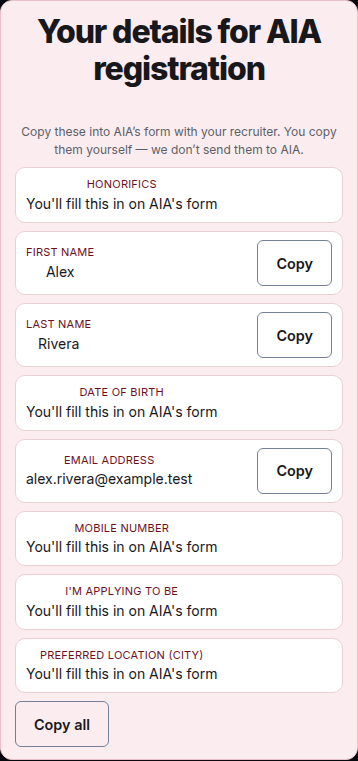
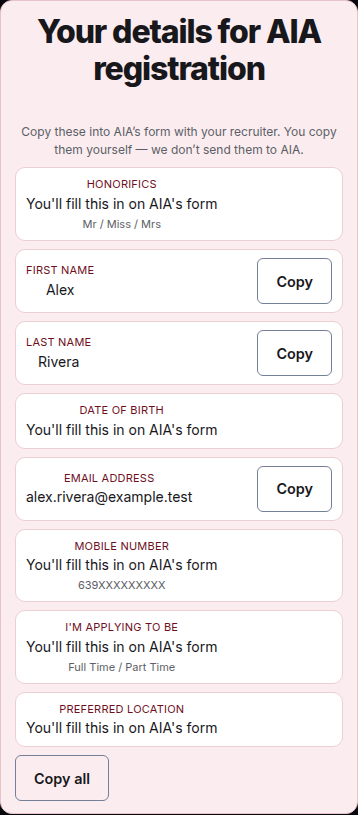
feat: mirror C1 AIA field list and adapt the copy card
Take lib/mvp01/aia-assisted-fields.ts from C1 #20 @ b895e1d (blob
fcfc4aa) without editing it. Visitor card still uses consented
name/email only, fill-on-AIA copy, and no generic join URLs.

Changed region(s): [[0.0307, 0.1511, 0.9525, 0.9671], [0.1229, 0.0, 0.8911, 0.1209]]

diff --git a/lib/mvp01/aia-assisted-fields.ts b/lib/mvp01/aia-assisted-fields.ts
@@ -1,22 +1,36 @@
 /**
- * Shared AIA iRecruit / join-us field order for C1 Command Center and G1 (#19).
- * Import this list; do not fork it. Update here once AIA confirms the live fields.
- * Never add credentials, passwords, PINs, agent codes, or iRecruit login fields.
+ * Shared AIA join-us-now copy-assist field order for C1 Command Center and G1 (#19).
+ * G1 mirrors this file byte-for-byte. Do not fork.
  *
- * AIA join-us-now form order (Nilo / SPIKEDEV, 13 Nov 2026): Honorifics, First Name,
- * Last Name, Date of Birth, Email Address, Mobile Number, I'm Applying To Be,
- * Preferred Location (City). Consent checkbox and captcha stay on AIA's form.
- * URL prefill is not supported. G1 must not collect DOB on the landing.
+ * Evidence (SPIKEDEV, read-only headless Chrome, synthetic `reference`):
+ * the live form is Honorifics, First Name, Last Name, Date of Birth, Email Address,
+ * Mobile Number, I'm Applying To Be, Preferred Location, then consent + reCAPTCHA.
+ * Applicant URL prefill is not supported. The page reads `reference`, `cmpid`,
+ * `scroll`, and `clickid`. A valid reference greets
+ * "Hi! I'm <recruiter name>, your assigned Life Planner".
+ *
+ * Never add credentials, passwords, PINs, agent codes, or iRecruit login fields.
+ * Never collect new PII here. Date of Birth is shown only when it already exists
+ * on the consented candidate record.
  */
+export const AIA_ASK_ON_FORM = "ask the candidate on AIA's form";
+export const AIA_MOBILE_FORMAT_HINT = '639XXXXXXXXX';
+
 export const AIA_ASSISTED_REGISTRATION_FIELDS = [
-  { id: 'honorifics', label: 'Honorifics', candidateKey: null },
-  { id: 'first_name', label: 'First Name', candidateKey: 'name_first' },
-  { id: 'last_name', label: 'Last Name', candidateKey: 'name_last' },
-  { id: 'date_of_birth', label: 'Date of Birth', candidateKey: null },
-  { id: 'email', label: 'Email Address', candidateKey: 'email' },
-  { id: 'mobile', label: 'Mobile Number', candidateKey: 'phone' },
-  { id: 'applying_to_be', label: "I'm Applying To Be", candidateKey: null },
-  { id: 'city', label: 'Preferred Location (City)', candidateKey: null },
+  { id: 'honorifics', label: 'Honorifics', options: ['Mr', 'Miss', 'Mrs'], candidateKey: null, formatHint: null },
+  { id: 'first_name', label: 'First Name', options: null, candidateKey: 'name_first', formatHint: null },
+  { id: 'last_name', label: 'Last Name', options: null, candidateKey: 'name_last', formatHint: null },
+  { id: 'date_of_birth', label: 'Date of Birth', options: null, candidateKey: 'dateOfBirth', formatHint: null },
+  { id: 'email', label: 'Email Address', options: null, candidateKey: 'email', formatHint: null },
+  { id: 'mobile', label: 'Mobile Number', options: null, candidateKey: 'phone', formatHint: AIA_MOBILE_FORMAT_HINT },
+  { id: 'applying_to_be', label: "I'm Applying To Be", options: ['Full Time', 'Part Time'], candidateKey: null, formatHint: null },
+  { id: 'preferred_location', label: 'Preferred Location', options: null, candidateKey: null, formatHint: null },
+] as const;
+
+/** Fields 9–10. The candidate completes these on AIA's form; they are not copy-assist fields. */
+export const AIA_ASSISTED_CANDIDATE_ON_FORM = [
+  { id: 'consent', label: 'Consent checkbox', note: "Done by the candidate on AIA's form. Not collected or copied here." },
+  { id: 'recaptcha', label: 'reCAPTCHA', note: "Done by the candidate on AIA's form. Not collected or copied here." },
 ] as const;
 
 export type AiaAssistedFieldId = (typeof AIA_ASSISTED_REGISTRATION_FIELDS)[number]['id'];
@@ -25,6 +39,18 @@ export type AiaAssistedField = {
   label: string;
   value: string;
   captured: boolean;
+  source: 'collected' | 'ask_on_aia_form';
+  prompt: string;
+  formatHint: string | null;
+  options: readonly string[] | null;
+};
+
+export type AiaAssistedCandidate = {
+  name?: string | null;
+  email?: string | null;
+  phone?: string | null;
+  /** Pass only if already stored on the consented record. Never invent or newly collect. */
+  dateOfBirth?: string | null;
 };
 
 const CREDENTIAL_FIELD = /password|credential|secret|pin|otp|agent.?code|access.?code|irecruit/i;
@@ -48,7 +74,7 @@ export function splitCandidateName(name: string) {
   return { first: parts[0], last: parts.slice(1).join(' ') };
 }
 
-export function mapAssistedRegistrationFields(candidate: { name?: string | null; email?: string | null; phone?: string | null }): AiaAssistedField[] {
+export function mapAssistedRegistrationFields(candidate: AiaAssistedCandidate = {}): AiaAssistedField[] {
   assertAiaAssistedFieldsHaveNoCredentials();
   const split = splitCandidateName(String(candidate.name || ''));
   const values: Record<string, string> = {
@@ -56,9 +82,20 @@ export function mapAssistedRegistrationFields(candidate: { name?: string | null;
     name_last: split.last,
     email: String(candidate.email || '').trim(),
     phone: String(candidate.phone || '').trim(),
+    dateOfBirth: String(candidate.dateOfBirth || '').trim(),
   };
   return AIA_ASSISTED_REGISTRATION_FIELDS.map((field) => {
     const value = field.candidateKey ? (values[field.candidateKey] || '') : '';
-    return { id: field.id, label: field.label, value, captured: value.length > 0 };
+    const captured = value.length > 0;
+    return {
+      id: field.id,
+      label: field.label,
+      value,
+      captured,
+      source: captured ? 'collected' : 'ask_on_aia_form',
+      prompt: captured ? value : AIA_ASK_ON_FORM,
+      formatHint: field.formatHint,
+      options: field.options,
+    };
   });
 }

diff --git a/lib/mvp01/aia-assisted-fields.test.ts b/lib/mvp01/aia-assisted-fields.test.ts
@@ -1,12 +1,15 @@
 import { describe, expect, it } from 'vitest';
 import {
+  AIA_ASK_ON_FORM,
+  AIA_ASSISTED_CANDIDATE_ON_FORM,
   AIA_ASSISTED_REGISTRATION_FIELDS,
+  AIA_MOBILE_FORMAT_HINT,
   assertAiaAssistedFieldsHaveNoCredentials,
   mapAssistedRegistrationFields,
 } from './aia-assisted-fields';
 
 describe('AIA assisted registration field config', () => {
-  it('keeps a single shared field order without credential fields', () => {
+  it('matches the live join-us-now field order without credential or captcha copy fields', () => {
     expect(AIA_ASSISTED_REGISTRATION_FIELDS.map((field) => field.id)).toEqual([
       'honorifics',
       'first_name',
@@ -15,26 +18,47 @@ describe('AIA assisted registration field config', () => {
       'email',
       'mobile',
       'applying_to_be',
-      'city',
+      'preferred_location',
     ]);
+    expect(AIA_ASSISTED_REGISTRATION_FIELDS.map((field) => field.label)).toEqual([
+      'Honorifics',
+      'First Name',
+      'Last Name',
+      'Date of Birth',
+      'Email Address',
+      'Mobile Number',
+      "I'm Applying To Be",
+      'Preferred Location',
+    ]);
+    expect(AIA_ASSISTED_REGISTRATION_FIELDS[0].options).toEqual(['Mr', 'Miss', 'Mrs']);
+    expect(AIA_ASSISTED_REGISTRATION_FIELDS[6].options).toEqual(['Full Time', 'Part Time']);
+    expect(AIA_ASSISTED_REGISTRATION_FIELDS[5].formatHint).toBe(AIA_MOBILE_FORMAT_HINT);
+    expect(AIA_ASSISTED_CANDIDATE_ON_FORM.map((item) => item.id)).toEqual(['consent', 'recaptcha']);
+    expect(AIA_ASSISTED_CANDIDATE_ON_FORM.every((item) => /candidate on AIA's form/i.test(item.note))).toBe(true);
     expect(() => assertAiaAssistedFieldsHaveNoCredentials()).not.toThrow();
     expect(JSON.stringify(AIA_ASSISTED_REGISTRATION_FIELDS)).not.toMatch(/password|credential|secret|pin|otp|agent.?code/i);
   });
 
-  it('maps consented candidate details into that order without inventing DOB or city', () => {
+  it('marks collected vs ask-on-form and never invents DOB, honorifics, applying-to-be, or city', () => {
     const fields = mapAssistedRegistrationFields({
       name: 'Synthetic Ada Recruiter',
       email: 'ada@example.test',
       phone: '+639170000001',
     });
     expect(fields.map((field) => field.id)).toEqual(AIA_ASSISTED_REGISTRATION_FIELDS.map((field) => field.id));
-    expect(fields[0]).toMatchObject({ id: 'honorifics', value: '', captured: false });
-    expect(fields[1]).toMatchObject({ id: 'first_name', value: 'Synthetic', captured: true });
-    expect(fields[2]).toMatchObject({ id: 'last_name', value: 'Ada Recruiter', captured: true });
-    expect(fields[3]).toMatchObject({ id: 'date_of_birth', value: '', captured: false });
-    expect(fields[4]).toMatchObject({ id: 'email', value: 'ada@example.test', captured: true });
-    expect(fields[5]).toMatchObject({ id: 'mobile', value: '+639170000001', captured: true });
-    expect(fields[6]).toMatchObject({ id: 'applying_to_be', value: '', captured: false });
-    expect(fields[7]).toMatchObject({ id: 'city', value: '', captured: false });
+    expect(fields[0]).toMatchObject({ id: 'honorifics', captured: false, source: 'ask_on_aia_form', prompt: AIA_ASK_ON_FORM, value: '' });
+    expect(fields[1]).toMatchObject({ id: 'first_name', value: 'Synthetic', captured: true, source: 'collected' });
+    expect(fields[2]).toMatchObject({ id: 'last_name', value: 'Ada Recruiter', captured: true, source: 'collected' });
+    expect(fields[3]).toMatchObject({ id: 'date_of_birth', captured: false, source: 'ask_on_aia_form', prompt: AIA_ASK_ON_FORM, value: '' });
+    expect(fields[4]).toMatchObject({ id: 'email', value: 'ada@example.test', captured: true, source: 'collected' });
+    expect(fields[5]).toMatchObject({ id: 'mobile', value: '+639170000001', captured: true, formatHint: AIA_MOBILE_FORMAT_HINT });
+    expect(fields[6]).toMatchObject({ id: 'applying_to_be', captured: false, source: 'ask_on_aia_form', prompt: AIA_ASK_ON_FORM });
+    expect(fields[7]).toMatchObject({ id: 'preferred_location', captured: false, source: 'ask_on_aia_form', prompt: AIA_ASK_ON_FORM });
+
+    const withDob = mapAssistedRegistrationFields({
+      name: 'Synthetic Ada Recruiter',
+      dateOfBirth: '1990-01-02',
+    });
+    expect(withDob[3]).toMatchObject({ id: 'date_of_birth', value: '1990-01-02', captured: true, source: 'collected' });
   });
 });

diff --git a/lib/gia/recruiter-registration.test.ts b/lib/gia/recruiter-registration.test.ts
@@ -5,7 +5,11 @@ import {
   AIA_REF_PARTNER,
   AIA_CAREER_SECTIONS,
 } from './aia-career-copy';
-import { AIA_ASSISTED_REGISTRATION_FIELDS } from '@/lib/mvp01/aia-assisted-fields';
+import {
+  AIA_ASK_ON_FORM,
+  AIA_ASSISTED_REGISTRATION_FIELDS,
+  AIA_MOBILE_FORMAT_HINT,
+} from '@/lib/mvp01/aia-assisted-fields';
 import {
   AIA_FORM_FILL_HINT,
   SYNTHETIC_CONSENT_CONTACT,
@@ -93,17 +97,20 @@ describe('AIA registration details card', () => {
     expect(JSON.stringify(AIA_ASSISTED_REGISTRATION_FIELDS)).not.toMatch(/password|credential|secret|pin|otp|agent.?code/i);
     const details = readFileSync('lib/gia/aia-registration-details.ts', 'utf8');
     expect(details).toContain("from '@/lib/mvp01/aia-assisted-fields'");
+    expect(details).not.toMatch(/dateOfBirth|phone:/);
     const rows = detailsForAiaRegistration(SYNTHETIC_CONSENT_CONTACT);
     expect(rows.map((r) => r.id)).toEqual(AIA_ASSISTED_REGISTRATION_FIELDS.map((f) => f.id));
     const captured = rows.filter((row) => row.captured);
     expect(captured.map((row) => row.value)).toEqual(expect.arrayContaining(['Alex', 'Rivera', 'alex.rivera@example.test']));
-    expect(captured.every((row) => !/dob|birth|honorific|city|applying/i.test(row.id))).toBe(true);
+    expect(captured.every((row) => !/dob|birth|honorific|city|applying|preferred|mobile/i.test(row.id))).toBe(true);
     for (const row of rows.filter((item) => !item.captured)) {
       expect(aiaDetailDisplay(row)).toEqual({ text: AIA_FORM_FILL_HINT, copyable: false });
+      expect(aiaDetailDisplay(row).text).not.toBe(AIA_ASK_ON_FORM);
     }
+    expect(rows.find((row) => row.id === 'mobile')?.formatHint).toBe(AIA_MOBILE_FORMAT_HINT);
     expect(copyAllAiaDetails(rows)).toContain('Alex');
     expect(copyAllAiaDetails(rows)).toContain('alex.rivera@example.test');
-    expect(copyAllAiaDetails(rows)).not.toMatch(/You'll fill this in/);
+    expect(copyAllAiaDetails(rows)).not.toMatch(/You'll fill this in|ask the candidate/);
     expect(detailsForAiaRegistration(null)).toEqual([]);
     expect(readFileSync('components/spike-preview/SpikePreviewLanding.tsx', 'utf8')).not.toMatch(
       /type="date"|dateOfBirth|date of birth/i,
@@ -124,7 +131,9 @@ describe('AIA registration details card', () => {
     expect(card).toContain('aiaDetailDisplay');
     expect(card).toContain('recruiterWithYouLine');
     expect(card).toContain('RECRUITER_CTA_OPEN_NOTE');
-    expect(card).not.toMatch(/Client-side copy only|Not collected here|awaiting Nilo/);
+    expect(card).not.toMatch(/Client-side copy only|Not collected here|awaiting Nilo|ask the candidate/);
+    expect(card).toContain('row.formatHint');
+    expect(card).toContain('row.options');
     expect(card).not.toMatch(/fetch\(|XMLHttpRequest/);
     expect(recruiterWithYouLine(SYNTHETIC_RECRUITER_DISPLAY_NAME)).toBe(
       "Your recruiter, TEST/RECRUITER, will be with you on AIA's form",

diff --git a/tests/gia/spike-preview-screenshots.spec.ts b/tests/gia/spike-preview-screenshots.spec.ts
@@ -115,8 +115,12 @@ test('synthetic screenshots at 390 and 1440', async ({ page }) => {
     await expect(dock.getByText('Date of Birth')).toBeVisible();
     await expect(dock.getByText(SYNTHETIC_CONSENT_CONTACT.email)).toBeVisible();
     await expect(dock.getByText("I'm Applying To Be")).toBeVisible();
-    await expect(dock.getByText('Preferred Location (City)')).toBeVisible();
+    await expect(dock.getByText('Preferred Location')).toBeVisible();
     await expect(dock.getByText("You'll fill this in on AIA's form").first()).toBeVisible();
+    await expect(dock.getByText('639XXXXXXXXX')).toBeVisible();
+    await expect(dock.getByText('Mr / Miss / Mrs')).toBeVisible();
+    await expect(dock.getByText('Full Time / Part Time')).toBeVisible();
+    await expect(dock.getByText(/ask the candidate/i)).toHaveCount(0);
     await expect(dock.getByRole('button', { name: 'Copy', exact: true })).toHaveCount(3);
     await expect(dock.getByRole('button', { name: 'Copy all' })).toBeVisible();
     await expect(dock.locator('input[type="date"]')).toHaveCount(0);

diff --git a/lib/gia/aia-registration-details.ts b/lib/gia/aia-registration-details.ts
@@ -11,9 +11,10 @@ export const SYNTHETIC_CONSENT_CONTACT: ConsentedContact = {
   email: 'alex.rivera@example.test',
 };
 
+/** Visitor-facing. C1's AIA_ASK_ON_FORM is staff copy and must not appear on the landing. */
 export const AIA_FORM_FILL_HINT = "You'll fill this in on AIA's form";
 
-/** Landing card uses C1's shared AIA field-order list. No extra PII is collected here. */
+/** Landing card uses C1's shared AIA field-order list. Name and email only — never phone or DOB. */
 export function detailsForAiaRegistration(contact: ConsentedContact | null | undefined): AiaAssistedField[] {
   if (!contact) return [];
   return mapAssistedRegistrationFields({ name: contact.name, email: contact.email });

diff --git a/components/gia/RegisterWithRecruiter.tsx b/components/gia/RegisterWithRecruiter.tsx
@@ -79,6 +79,12 @@ export function RegisterWithRecruiter({
                 <div>
                   <span className={styles.label}>{row.label}</span>
                   <span className={styles.value}>{display.text}</span>
+                  {!display.copyable && row.formatHint ? (
+                    <span className={styles.hint}>{row.formatHint}</span>
+                  ) : null}
+                  {!display.copyable && row.options ? (
+                    <span className={styles.hint}>{row.options.join(' / ')}</span>
+                  ) : null}
                 </div>
                 {display.copyable ? (
                   <button type="button" onClick={() => onCopy(row.id, row.value)}>

diff --git a/components/gia/register-with-recruiter.module.css b/components/gia/register-with-recruiter.module.css
@@ -92,6 +92,14 @@
   word-break: break-word;
 }
 
+.hint {
+  display: block;
+  margin-top: 2px;
+  font-size: 11px;
+  line-height: 16px;
+  color: #5c5e66;
+}
+
 .card button,
 .copyAll {
   flex-shrink: 0;

diff --git a/docs/screenshots/spike-preview/JOURNEY.md b/docs/screenshots/spike-preview/JOURNEY.md
@@ -7,7 +7,7 @@ Synthetic-only. No live applicants, no DB migration, no production deploy.
 3. Three taps route into GIA with a matching deterministic script and highlight the invitation (or the recruiter step). Nothing is stored. No account. No PII. Interns never land on AIA registration.
 4. GIA stays alive: `msg-in`, skippable typing dots (off under `prefers-reduced-motion`), and follow-up chips after every answer including **How do I join AIA / register?** and the career KPs.
 5. Consent card (approved copy): name, email, unticked checkbox, Save consent and contact. STOP / don’t send IDs or documents / privacy link stay visible. No DOB, address, or ID.
-6. After consent, **Register with your recruiter** greets with “Your recruiter, \<name\>, will be with you on AIA's form” and a short note: “This opens AIA's official registration with your recruiter.” The copy-ready **Your details for AIA registration** card follows C1’s shared field order. Fields we already have get Copy; Honorifics, DOB, Applying To Be, and City show “You'll fill this in on AIA's form”. No new PII on the landing. If no attributed URL is configured: **Your recruiter will contact you** (no link). URL prefill is not supported.
+6. After consent, **Register with your recruiter** greets with “Your recruiter, \<name\>, will be with you on AIA's form” and a short note: “This opens AIA's official registration with your recruiter.” The copy-ready **Your details for AIA registration** card follows C1’s shared field order. Fields we already have get Copy; Honorifics, DOB, Applying To Be, and Preferred Location show “You'll fill this in on AIA's form”. Mobile shows format `639XXXXXXXXX` without collecting a number. No new PII on the landing. If no attributed URL is configured: **Your recruiter will contact you** (no link). URL prefill is not supported.
 7. After consent, **Show FEP sessions** → **Book this FEP** writes the existing FEP booking; **Save leader request** writes the existing handoff. Command Center `/recruitment/command` shows the candidate event after staff sign-in (`/login` now lands on Command Center).
 8. Assigned leader (admin assignment) sees only assigned records. **STOP / opt out** suppresses further contact.
 

diff --git a/docs/aia-content/INVENTORY.md b/docs/aia-content/INVENTORY.md
@@ -22,7 +22,7 @@ Notes:
 - Some lower modules did not fully serialize in this fetch (JS-rendered accolades, further benefit tiles). Re-fetch if Nilo supplies an approved dump.
 - Tenure claim here (“70 years”) disagrees with the join-us-now FAQ (“80 years”). Treat as **date-sensitive**. Visitor UI must not mention a year count.
 - Visitor About copy is paraphrased and sourced. Do not surface engineering notes (generic Join us, hotlink/embed bans, “system of record”) on the landing.
-- AIA join-us-now form order (confirmed for copy-ready card): Honorifics, First Name, Last Name, Date of Birth, Email Address, Mobile Number, I'm Applying To Be, Preferred Location (City). Consent checkbox and captcha stay on AIA's form. URL prefill is not supported. Shared list: `lib/mvp01/aia-assisted-fields.ts` (mirror C1 #20).
+- AIA join-us-now form order (C1 #20 @ `b895e1d`, blob `fcfc4aa`): Honorifics, First Name, Last Name, Date of Birth, Email Address, Mobile Number, I'm Applying To Be, Preferred Location. Consent and reCAPTCHA stay on AIA's form. URL prefill is not supported. Shared list: `lib/mvp01/aia-assisted-fields.ts` (mirror C1 byte-for-byte). Visitor card says “You'll fill this in on AIA's form”, not C1's staff “ask the candidate” prompt.
 
 ## https://www.aia.com.ph/en/financialadvisor/join-us-now
 
